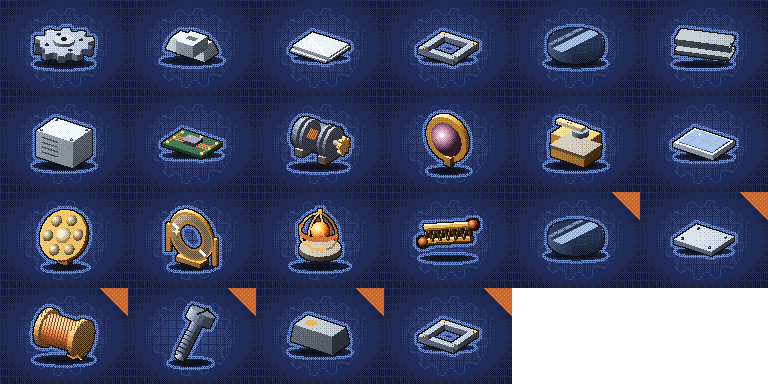
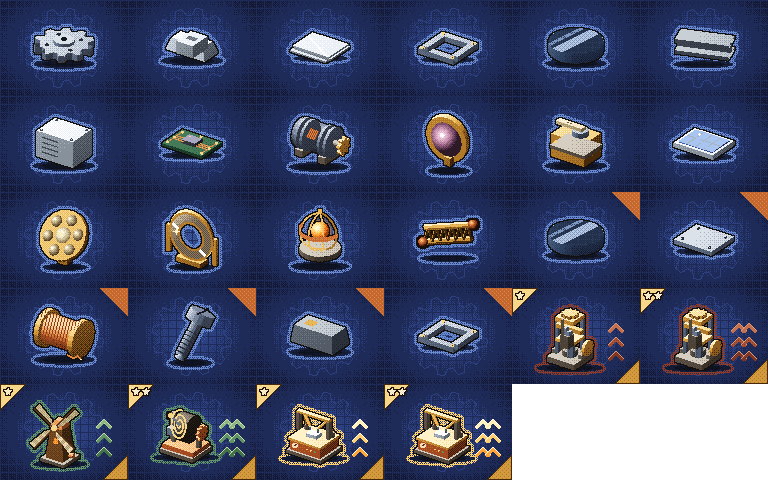
Brasswork: research card art for the six Mastery nodes
Claude-Session: https://claude.ai/code/session_01Pmx9dVCTrcGJ8FuT35mHGt

diff --git a/lib/automation/art/index.ts b/lib/automation/art/index.ts
@@ -97,7 +97,7 @@ export const MILESTONE_ART: Record<string, number> = {
 };
 
 /** Research cards: 128 x 96 blueprint cells, 6 across; alternates carry a copper corner. */
-export const RESEARCH_SHEET = { url: "/brasswork/art/research.webp?v=f4df9783", w: 128, h: 96, cols: 6, rows: 4 } as const;
+export const RESEARCH_SHEET = { url: "/brasswork/art/research.webp?v=5c88fd9f", w: 128, h: 96, cols: 6, rows: 5 } as const;
 export const RESEARCH_ART: Record<string, number> = {
     gears: 0, // Gear cutting
     furnace_alloys: 1, // Alloy furnaces
@@ -121,6 +121,12 @@ export const RESEARCH_ART: Record<string, number> = {
     bulk_screws: 19, // Bulk screws
     quick_steel: 20, // Quick steel
     fast_frames: 21, // Fast frames
+    deep_seams: 22, // Deep seams
+    deeper_seams: 23, // Deeper seams
+    tuned_sails: 24, // Tuned sails
+    tight_springs: 25, // Tight springs
+    quick_hands: 26, // Quick hands
+    steady_hands: 27, // Steady hands
 };
 
 /** Prestige site paintings: 128 x 96 cells in one row; hang them in DECOR_EXTRA.gilt. */

diff --git a/scripts/brasswork/build-menu-art.py b/scripts/brasswork/build-menu-art.py
@@ -380,6 +380,43 @@ def research_card(items, alt):
     return c.img[:96, :128].copy()
 
 
+# Mastery research has no recipe to show: the card shows the machine it speeds up, a brass rank pip per level and
+# rising chevrons, on blueprint paper with brass corner stamps so the six read as their own late-game set.
+MASTERY = {
+    "deep_seams": ("drill", 1, "ironore"), "deeper_seams": ("drill", 2, "ironore"),
+    "tuned_sails": ("windmill", 1, "patina"), "tight_springs": ("spring_winder", 2, "patina"),
+    "quick_hands": ("assembler", 1, "glow"), "steady_hands": ("assembler", 2, "glow"),
+}
+
+
+def mastery_card(rid):
+    mid, rank, pal = MASTERY[rid]
+    c = blueprint_bg(False)
+    for tri in (poly([(0, 0), (26, 0), (0, 26)]), poly([(128, 96), (102, 96), (128, 70)])):
+        c.fill(tri, 0.55 + 0.35 * np.clip(1 - (X + Y) / 200, 0, 1), "brass")
+        c.set(edge(tri, 1, 0) | edge(tri, 0, 1) | edge(tri, -1, 0) | edge(tri, 0, -1), P["brass"][1])
+    fg = draw_at(bw_machines.DRAW[mid], 58, 52, 66)
+    halo = grow(fg.img[..., 3] > 0, 3) & ~(fg.img[..., 3] > 0)
+    c.img[halo & (BAYER8 < 0.2)] = (*P[pal][4], 255)
+    c.over(fg)
+    # rising chevrons on the right: the speed-up, one stack per rank
+    for k in range(3):
+        y = 66 - 14 * k
+        for j in range(rank):
+            x = 104 + 10 * j - 5 * (rank - 1)
+            chev = path([(x - 6, y + 5), (x, y - 1), (x + 6, y + 5)], 3.2)
+            c.fill(chev, 0.5 + 0.18 * k, pal)
+            c.set(edge(chev, 0, -1), P[pal][-1])
+    # rank pips: small brass stars in the top-left stamp
+    for j in range(rank):
+        cx = 8 + 10 * j
+        star = poly([(cx + 4.5 * math.cos(-math.pi / 2 + i * math.pi / 5) * (1 if i % 2 == 0 else 0.45),
+                      8 + 4.5 * math.sin(-math.pi / 2 + i * math.pi / 5) * (1 if i % 2 == 0 else 0.45)) for i in range(10)])
+        c.set(grow(star, 1), P["brass"][0])
+        c.fill(star, 0.9, "cream")
+    return c.img[:96, :128].copy()
+
+
 SITES = ["ridge", "cove", "high-bank", "quarry"]
 
 
@@ -497,7 +534,7 @@ def round2():
     sheet = np.zeros((rows * 96, cols * 128, 4), np.uint8)
     for k, (rid, _, items, alt) in enumerate(rs):
         r, cc = divmod(k, cols)
-        sheet[r * 96:(r + 1) * 96, cc * 128:(cc + 1) * 128] = research_card(items, alt)
+        sheet[r * 96:(r + 1) * 96, cc * 128:(cc + 1) * 128] = mastery_card(rid) if rid in MASTERY else research_card(items, alt)
     v["research"] = save(sheet, "research", pair=True)
     v["sites"] = save(np.concatenate([site_scene(s) for s in SITES], axis=1), "sites", pair=True)
     v["gilt"] = save(gilt_frame(), "frame-gilt")
